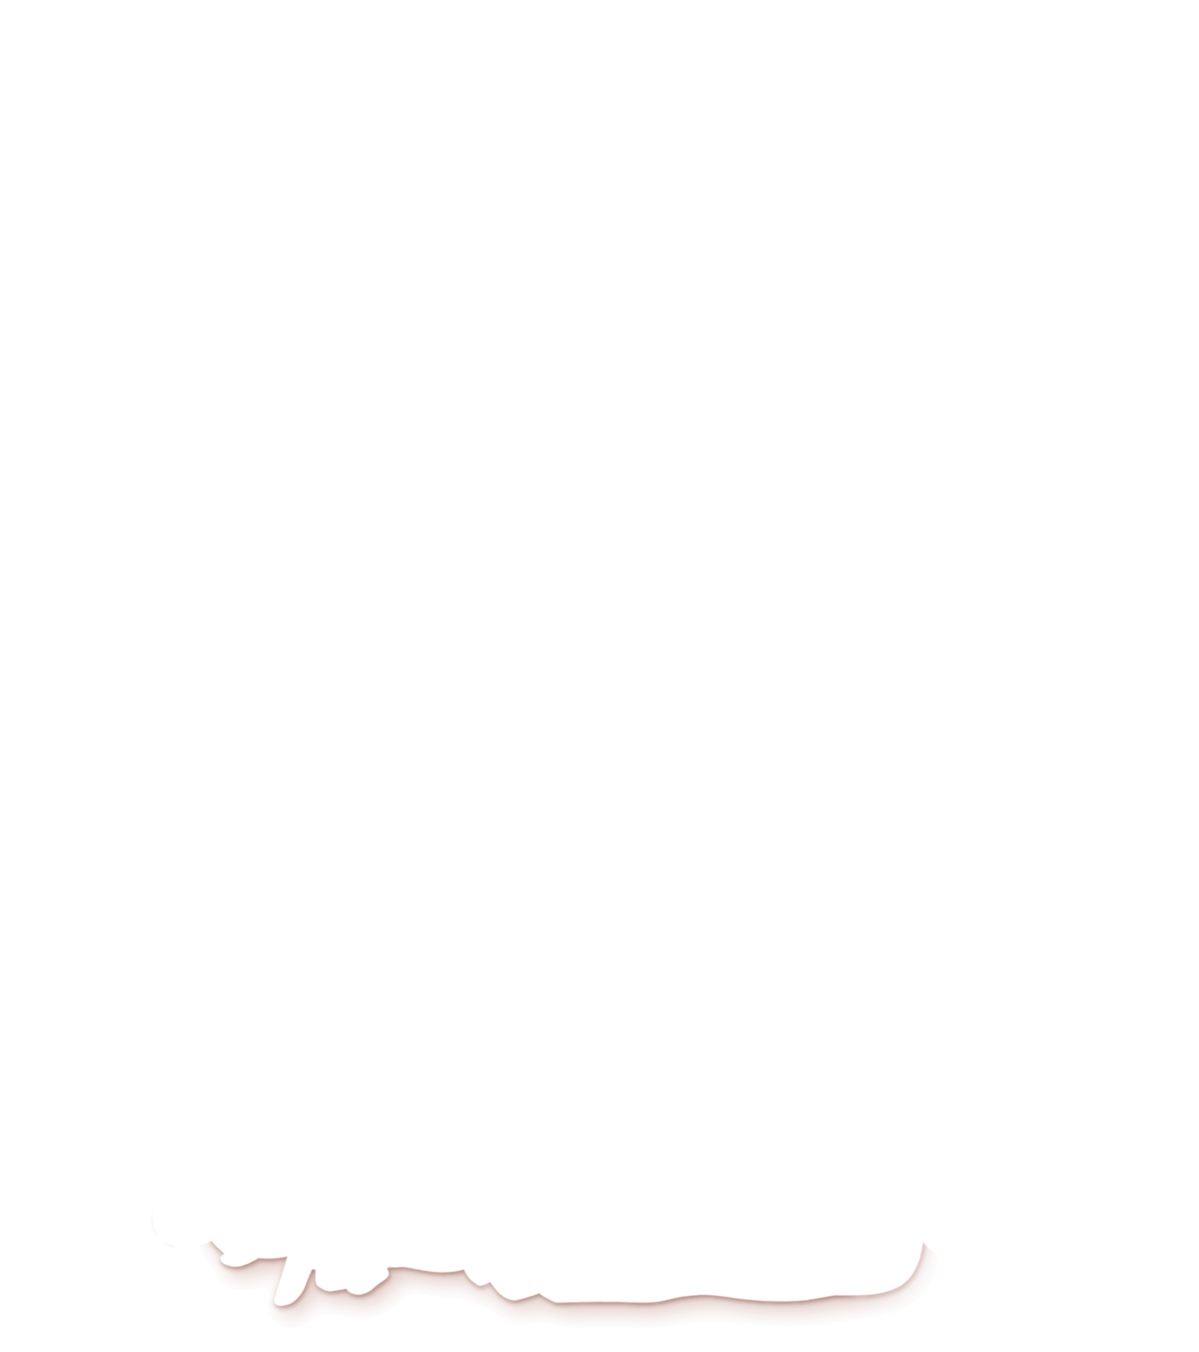
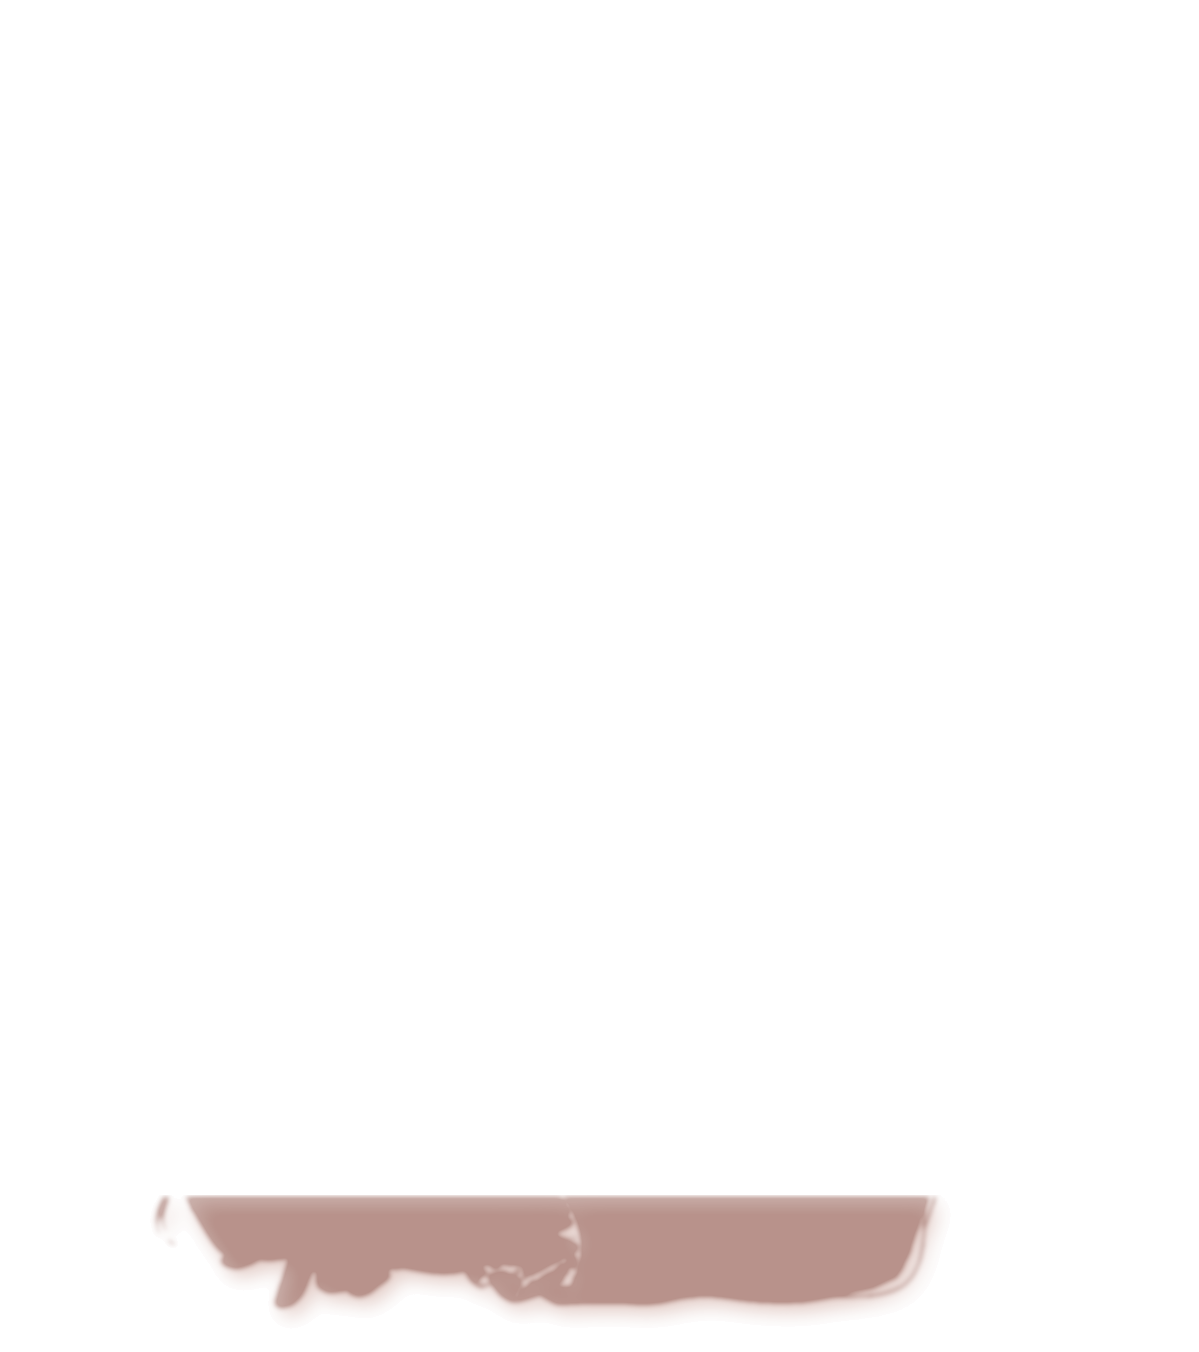
恢复整体往上顶的一跳；桌面阴影延伸到人物下面（顶起来不露白）；构建缓存改按内容哈希判断

Changed region(s): [[0.1234, 0.8698, 0.8023, 0.963]]

diff --git a/brand-override/skin.css b/brand-override/skin.css
@@ -498,16 +498,16 @@ $SKIN [data-dsh-academy-desk-back] .dsh-academy-pose {
   transition: opacity 150ms ease; /* 短：两层重叠时手和头发会出现重影 */
 }
 /* 固定书桌 + 人物层的表情切换是直接替换、没有淡入淡出（client.js selectComboPose）：任何交叉淡入都会透出旧人物，看起来像重影。 */
-/* 换表情时：人物轻轻往上顶一下，头部附近闪出三颗小星星。书桌、桌面阴影、羽毛笔墨水瓶不动。星星由 client.js 加进新的一组、动画完删掉。
- * 「顶」是以人物层底边为中心竖向拉长 0.8%：头顶上移约 3px，压在桌上的手肘和手几乎不动（< 0.2px）。
- * 不能整体往上平移：手肘离开书页会露出一条白色（书页），用户发现。以前试过放大 2% / 1% 再缩回，用户觉得中规中矩。 */
-@keyframes dsh-academy-hop { 0% { transform: scaleY(1); } 35% { transform: scaleY(1.008); } 70%, 100% { transform: scaleY(1); } }
+/* 换表情时：人物整体往上顶 3px 再落回，头部附近闪出三颗小星星。书桌、桌面阴影、羽毛笔墨水瓶不动（像手抬起一下）。
+ * 星星由 client.js 加进新的一组、动画完删掉。桌面阴影一直延伸到人物下面（char_layers.py），顶起来露出的那条书桌是阴影色、不发白。
+ * 试过以底边为中心竖向拉长（手不动），用户觉得不如整体顶起来好看；放大 2% / 1% 再缩回，用户觉得中规中矩。 */
+@keyframes dsh-academy-hop { 0% { transform: translateY(0); } 35% { transform: translateY(-3px); } 70%, 100% { transform: translateY(0); } }
 @keyframes dsh-academy-twinkle {
   0% { opacity: 0; transform: scale(0.2) rotate(-40deg); }
   35% { opacity: 1; transform: scale(1) rotate(0deg); }   /* 最亮时是正的四角星，转成 X 会和背景里的星星混在一起 */
   100% { opacity: 0; transform: scale(0.4) rotate(40deg); }
 }
-$SKIN [data-dsh-academy-rail][data-layered] .dsh-academy-pop .dsh-academy-character { transform-origin: 50% 100%; animation: dsh-academy-hop 300ms ease-out; }
+$SKIN [data-dsh-academy-rail][data-layered] .dsh-academy-pop .dsh-academy-character { animation: dsh-academy-hop 300ms ease-out; }
 /* 星星层和人物层同一位置，星星按人物图的比例摆：头饰右边（便签下面）、右耳外侧、呆毛左边。 */
 $SKIN [data-dsh-academy-rail][data-layered] .dsh-academy-sparkle {
   position: absolute;

diff --git a/tools/char_layers.py b/tools/char_layers.py
@@ -123,7 +123,9 @@ def char_layer(src, shade=True, gpt=None):
         # 颜色取 GPT 手肘下接触阴影的颜色（CONTACT_TINT / BROAD_TINT，四个表情一致）。
         al = a[..., 3] / 255
         body = ((al > 0.5) & low & ~hair).astype(float)
-        out = (1 - al) * low
+        # 阴影一直延伸到人物下面（以前乘 1 − alpha 只留人物外面）：平时被不透明的人物盖住看不见；换表情时人物往上顶 3px，
+        # 露出的那条书桌也是阴影色。以前那条没有阴影，在周围的阴影里显得发白（用户发现）。
+        out = low
         def soft(dy, dx, sigma):
             m = ndimage.gaussian_filter(ndimage.shift(body, (dy * S, dx * S), order=0), sigma * S) * out
             return np.asarray(Image.fromarray((np.clip(m, 0, 1) * 255).astype('uint8')).resize(

diff --git a/docs/修改记录.md b/docs/修改记录.md
@@ -190,6 +190,8 @@ osascript -e 'quit app "DeepSeek Harness"' && open -a "DeepSeek Harness"
 | 单独画的书桌和角色对不上、看起来失真 | 书桌和立绘分开生成，透视、大小、高度都靠估算 | 先生成「角色 + 书桌」合成图，再在同一画布上去掉角色得到书桌，按像素对齐 |
 | 模型输出时可能卡顿 | 每次 DOM 变化都全量扫描页面 | MutationObserver 回调用 `requestAnimationFrame` 节流，每帧最多扫描一次 |
 | 改了插件却没生效 | 应用在安装之前就启动了 | 插件只在启动时加载，安装后必须重启应用 |
+| 重新生成的素材装进插件后还是旧图（好奇、眨眼的阴影没变） | `build.mjs` 的缩放缓存原来按修改时间判断；`char_layers.py` 重写的 PNG 有时修改时间不更新，比缓存还旧，于是一直用旧缓存 | 缓存改按源文件内容的哈希判断（`<缓存>.src`）。怀疑素材没生效时，用调试端口读页面里图片的像素和源文件对比 |
+| 表情切换时人物整体往上顶，手下露出一条白边 | 桌面阴影以前乘 (1 − 人物 alpha)，只在人物外面；人物抬起后露出的那条书桌没有阴影，在周围阴影里显得发白 | 桌面阴影延伸到人物下面（被不透明的人物盖住，平时看不见） |
 
 **选择器原则**：优先使用 Harness 的 `data-slot`、`data-*`、`role`、`aria-*` 属性，配合 `:has()` 定位。不要依赖 `_3WPZCG_root` 这类哈希类名，应用更新后它们会变。常用定位：
 
@@ -208,6 +210,16 @@ osascript -e 'quit app "DeepSeek Harness"' && open -a "DeepSeek Harness"
 ---
 
 ## 五、版本记录
+
+### 2026-10-04 · 恢复整体往上顶的一跳；桌面阴影延伸到人物下面；构建缓存改按内容判断
+
+- 备份：`backup/恢复整体上移的顶一下前-20261004-155828`。
+- 用户觉得之前整体往上顶 3px 更好看，问书桌那里能不能补齐。查明：书桌是完整的，白边不是缺图——`char_layers.py` 生成桌面阴影时乘了 (1 − 人物 alpha)，阴影只到人物边缘为止，手下面没有阴影；手抬起 3px，露出的那条书页没有阴影，在周围的暖色阴影里显得发白。
+- 修改：`char_layers.py` 桌面阴影改为一直延伸到人物下面（`out = low`），重新生成 shadow-*.png（人物层、书桌、前景层逐字节不变）；`skin.css` 的 `dsh-academy-hop` 改回 `translateY(-3px)`，星光不变。
+- 中途试过把人物下边缘下面的书桌用附近像素填补，书页边缘会糊成灰色，已放弃（没有提交）。
+- 构建缓存：`build.mjs` 的缩放缓存原来按修改时间判断，这次重新生成的 shadow-wink.png、shadow-curious.png 修改时间没有更新（比缓存还旧），装进去的还是旧阴影，眨眼表情仍有白边。改为按源文件内容的 SHA-1 判断（存在 `<缓存>.src`，`.gitignore` 已忽略）。第一次构建全部重新转换，之后全部命中。
+- 验证：build + verify 72/72，包体 6.80 MB；调试端口把四个表情分别固定在上移 3px 和静止截图对比，四个都没有白边，手和袖子下面是暖色阴影；静止时和原来一样。
+
 
 ### 2026-10-04 · 表情切换改为「往上顶一下 + 星光一闪」（试用）
 
